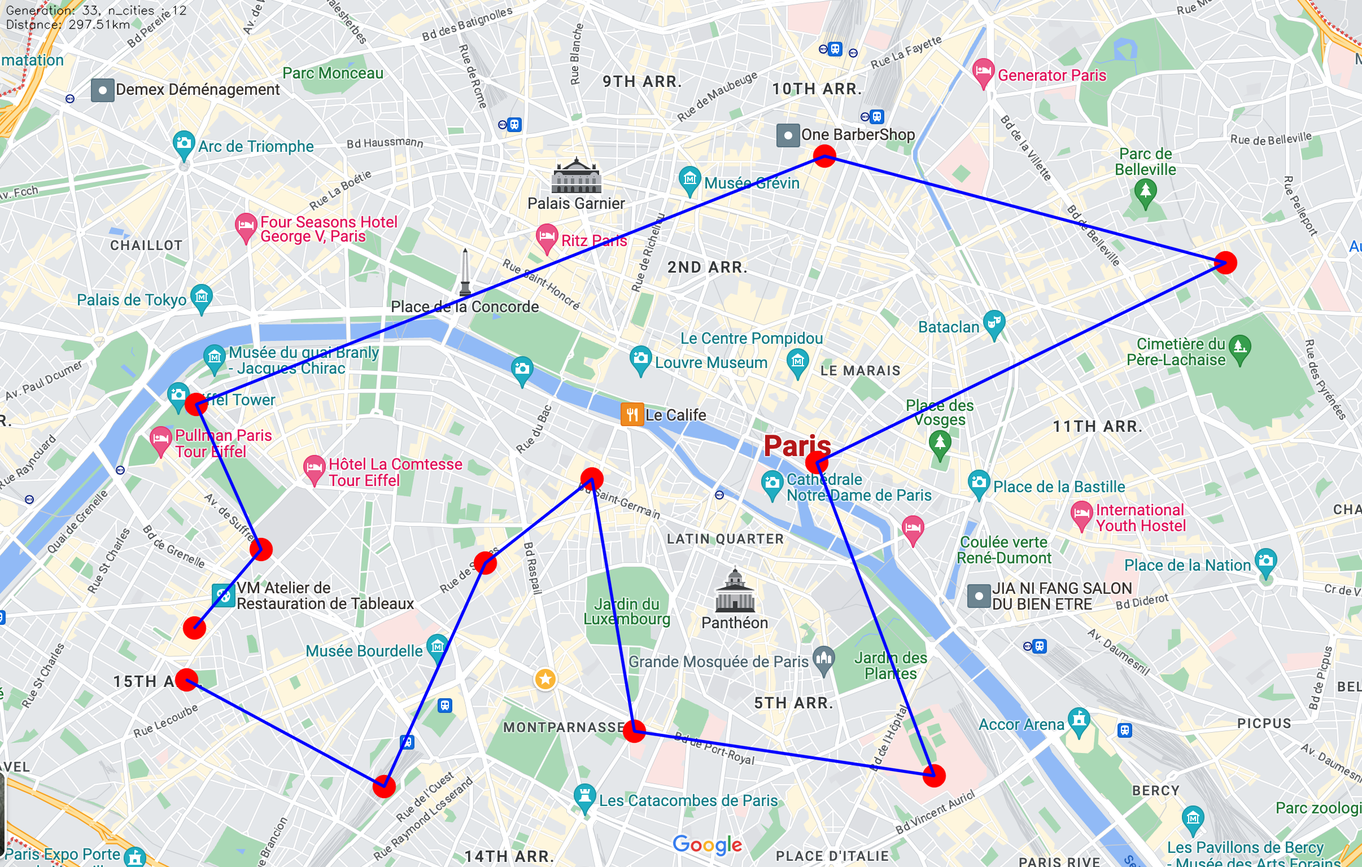
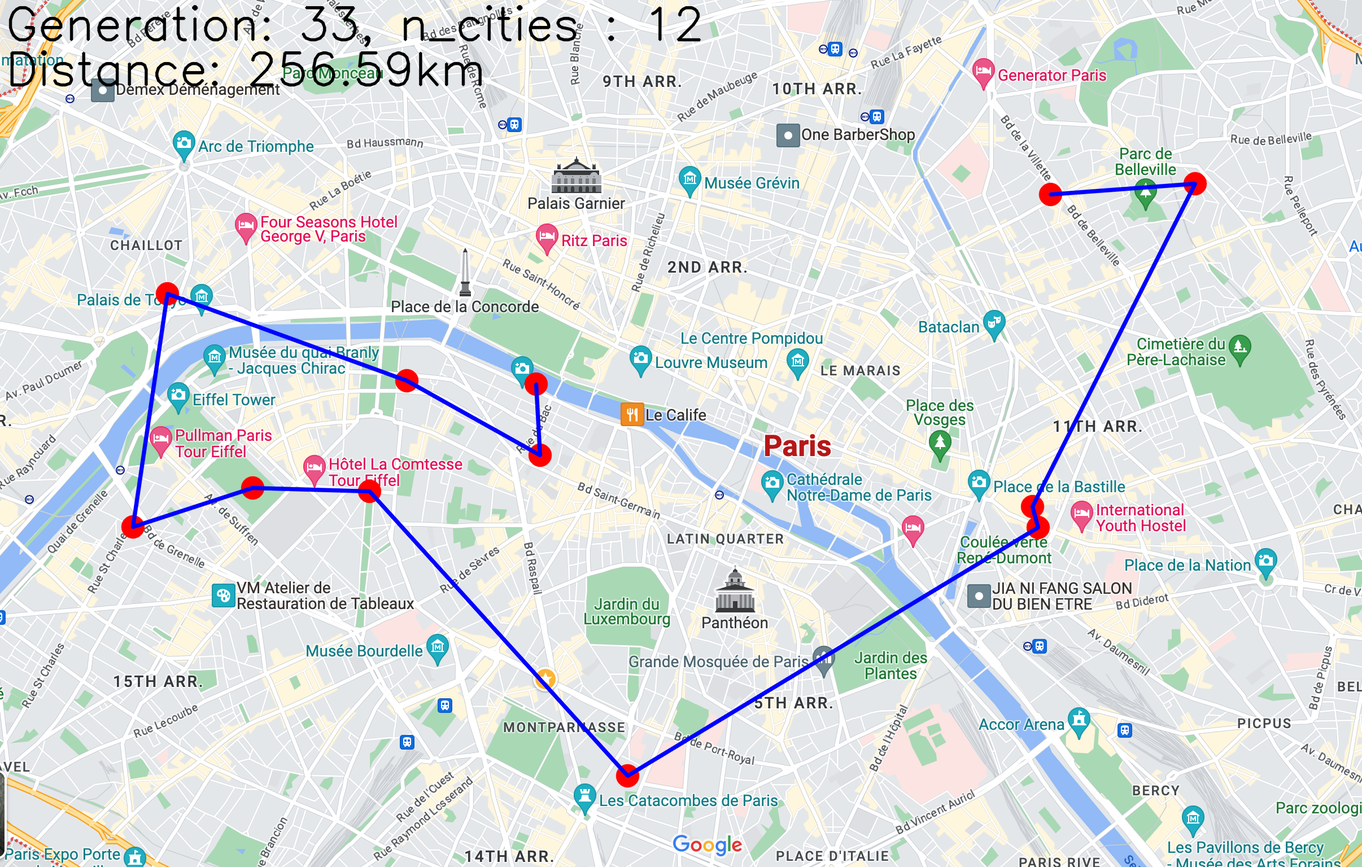
add drawing plot

diff --git a/main_cities_coordinates.py b/main_cities_coordinates.py
@@ -219,7 +219,7 @@ def getsolutionfromfittests(cities_coordinates, tourmanager):
     n_generations = int(2 ** ((n_cities + 3.5) / 3.5)) + n_cities
 
     # random.seed(200) # not bed
-    random.seed(300)
+    # random.seed(300)
 
     # Load the map
     map_original = cv2.imread("map_Paris.png")
@@ -263,31 +263,31 @@ def getsolutionfromfittests(cities_coordinates, tourmanager):
                 pt1=(fittest[j - 1].x, fittest[j - 1].y),
                 pt2=(fittest[j].x, fittest[j].y),
                 color=(255, 0, 0),
-                thickness=3,
+                thickness=5,
                 lineType=cv2.LINE_AA,
             )
 
         generation_text = "Generation: {0}, n_cities : {1}".format(i + 1,n_cities)
         cv2.putText(
             map_result,
-            org=(10, 25),
+            org=(10, 70),
             text=generation_text,
             fontFace=cv2.FONT_HERSHEY_SIMPLEX,
-            fontScale=0.7,
+            fontScale=2.7,
             color=0,
-            thickness=1,
+            thickness=3,
             lineType=cv2.LINE_AA,
         )
 
         distance_text = "Distance: %.2fkm" % fittest.getDistance()
         cv2.putText(
             map_result,
-            org=(10, 50),
+            org=(10, 150),
             text=distance_text,
             fontFace=cv2.FONT_HERSHEY_SIMPLEX,
-            fontScale=0.7,
+            fontScale=2.7,
             color=0,
-            thickness=1,
+            thickness=3,
             lineType=cv2.LINE_AA,
         )
         # print('generation : {}, distance : {}, Solution : {} !'
@@ -319,7 +319,7 @@ if __name__ == "__main__":
 
     start_fittest_count = 4
     for i in range(n_cities):
-        x = random.randint(200, 2200)
+        x = random.randint(200, 2300)
         y = random.randint(200, 1400)
         tourmanager.addCity(City(x=x, y=y))
         cities_coordinates.append((x, y))

diff --git a/images_plot_nogap.py b/images_plot_nogap.py
@@ -1,0 +1,30 @@
+import matplotlib.pyplot as plt
+import matplotlib.gridspec as gridspec
+from PIL import Image
+
+# 이미지 파일명 리스트
+# 정상
+image_files = ['output_9.png', 'output_11.png', 
+               'output_13.png', 'output_15.png', 
+                'output_18.png', 'output_19.png']
+
+# 비정상
+image_files = ['output_16.png', 
+                'output_17.png', 'output_20.png']
+
+# 이미지 불러오기
+import os
+images = [Image.open(os.path.join('result_images',file)) for file in image_files]
+
+# plot 설정
+fig = plt.figure(figsize=(11, 7))
+gs = gridspec.GridSpec(1, 3, hspace=0.01, wspace=0.01)
+
+# 이미지를 간격 좁게 표시
+for i in range(3):
+    ax = fig.add_subplot(gs[i])
+    ax.imshow(images[i])
+    ax.axis('off')
+
+# 결과 출력
+plt.show()

diff --git a/images_plot.py b/images_plot.py
@@ -1,0 +1,22 @@
+import matplotlib.pyplot as plt
+
+# 이미지 파일명 리스트
+image_files = ['output_5.png', 'output_6.png', 'output_7.png', 'output_8.png',
+               'output_9.png', 'output_10.png', 'output_11.png', 'output_12.png',
+               'output_13.png', 'output_14.png', 'output_15.png', 'output_16.png',
+               'output_17.png', 'output_18.png', 'output_19.png', 'output_20.png']
+
+# plot에 이미지 배치
+fig, axes = plt.subplots(4, 4, figsize=(14, 8))
+
+import os
+for i, ax in enumerate(axes.flat):
+    images_path = os.path.join('result_images',image_files[i])
+    img = plt.imread(images_path)
+    ax.imshow(img)
+    ax.axis('off')
+
+# 결과 출력
+plt.tight_layout()
+plt.show()
+pass
